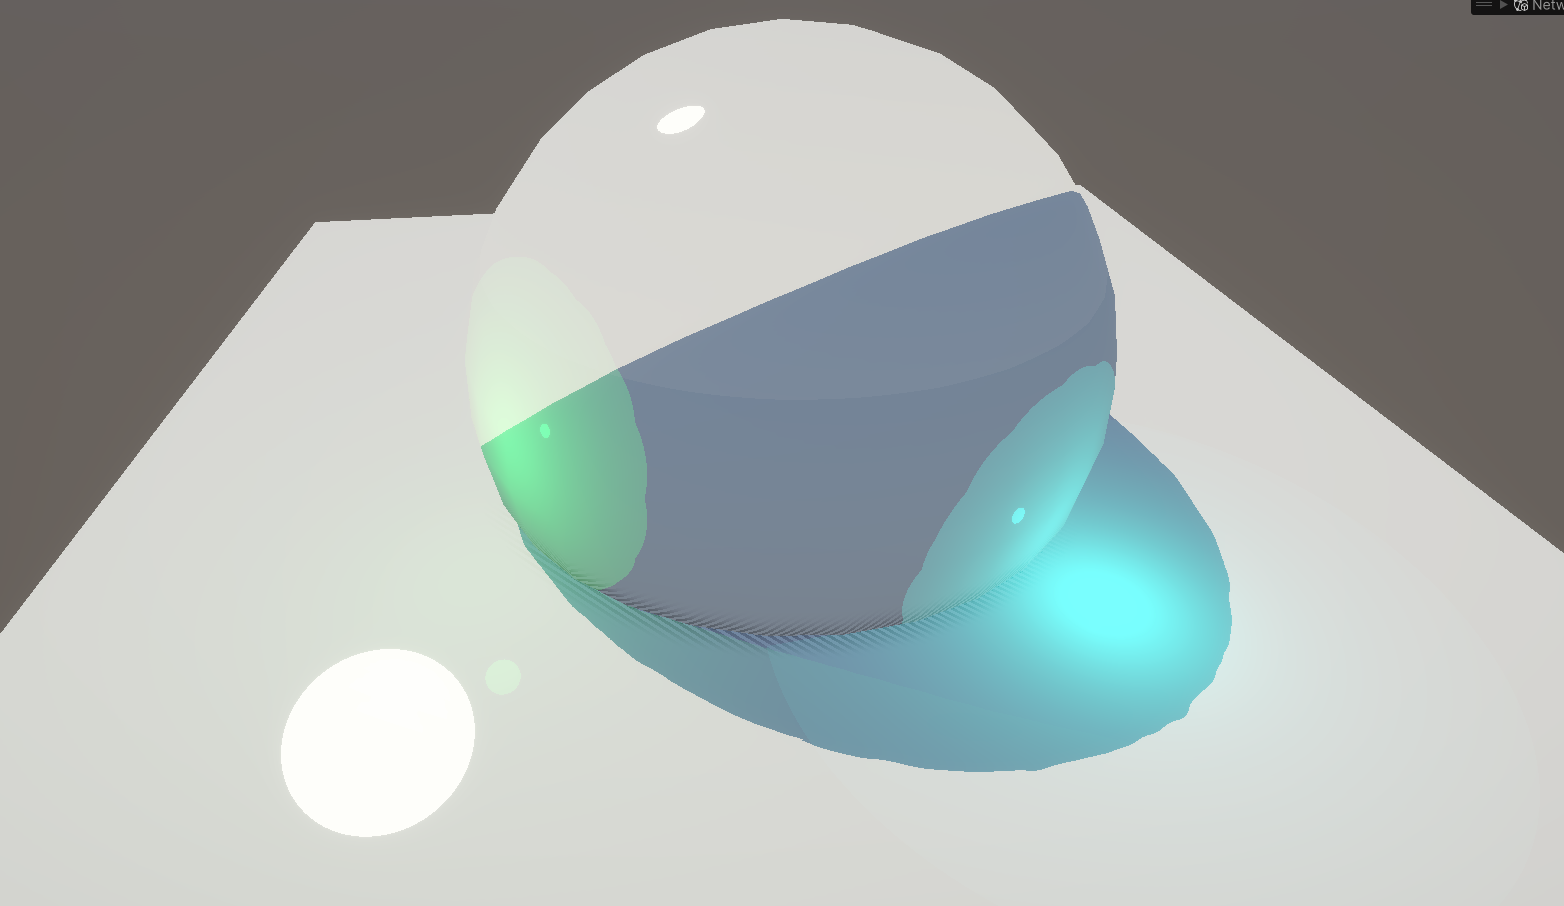
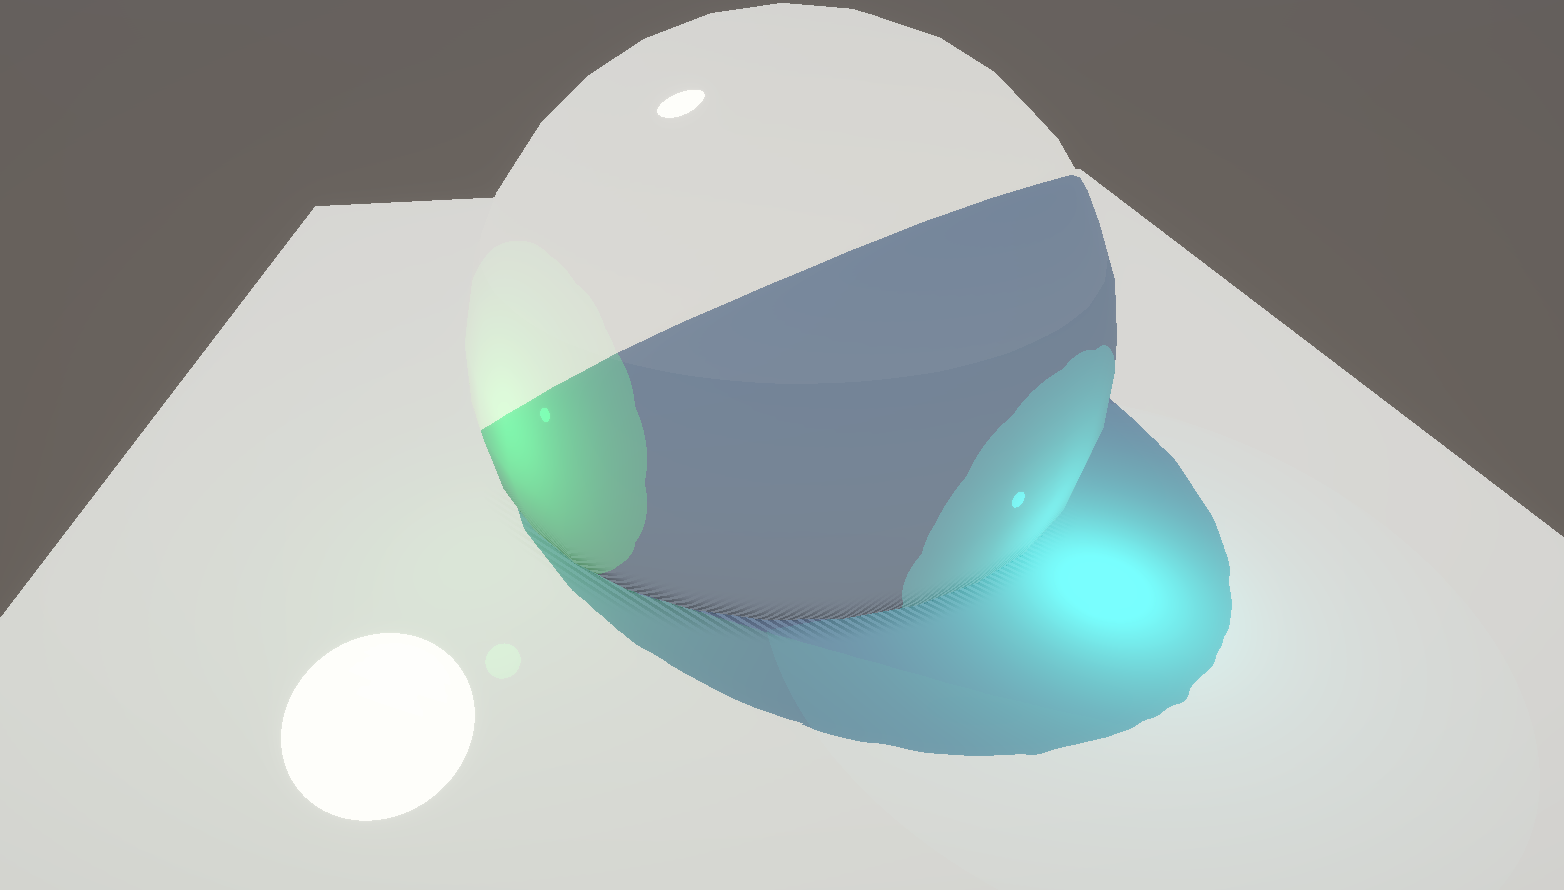
Add next section to abs page

diff --git a/AbsoluteMomentum.html b/AbsoluteMomentum.html
@@ -99,34 +99,34 @@
 							<!-- Image Grid Row 1 -->
 							<div style="display: flex; justify-content: space-between; gap: 10px; margin: 20px 0;">
 								<div style="flex: 1; text-align: center;">
-									<img src="images/StylizedFluids/Magma.png" alt="HDR Colors" style="width: 100%; height: auto; margin-bottom: 8px; border-radius: 4px;" />
-									<p><b>HDR</b> Colors design</p>
+									<img src="images/AbsMomentum/Lit.png" alt="Stylized Lit" style="width: 100%; height: auto; margin-bottom: 8px; border-radius: 4px;" />
+									<p>Stylized Lit Shader</p>
 								</div>
 								<div style="flex: 1; text-align: center;">
-									<img src="images/StylizedFluids/ClearWater.png" alt="Depth and transparency" style="width: 100%; height: auto; margin-bottom: 8px; border-radius: 4px;" />
-									<p><b>Depth</b> and <b>transparency</b></p>
+									<img src="images/AbsMomentum/Lit.png" alt="Double-Sided Stylized" style="width: 100%; height: auto; margin-bottom: 8px; border-radius: 4px;" />
+									<p>Double-Sided Stylized Lit Shader</p>
 								</div>
 							</div>
 							<!-- Image Grid Row 2 -->
 							<div style="display: flex; justify-content: space-between; gap: 10px; margin: 20px 0;">
 								<div style="flex: 1; text-align: center;">
-									<img src="images/StylizedFluids/Magma.png" alt="HDR Colors" style="width: 100%; height: auto; margin-bottom: 8px; border-radius: 4px;" />
-									<p><b>HDR</b> Colors design</p>
+									<img src="images/AbsMomentum/Tree.png" alt="Foliage" style="width: 100%; height: auto; margin-bottom: 8px; border-radius: 4px;" />
+									<p>Foliage Shader</p>
 								</div>
 								<div style="flex: 1; text-align: center;">
-									<img src="images/StylizedFluids/ClearWater.png" alt="Depth and transparency" style="width: 100%; height: auto; margin-bottom: 8px; border-radius: 4px;" />
-									<p><b>Depth</b> and <b>transparency</b></p>
+									<img src="images/AbsMomentum/Tree.png" alt="Transparent" style="width: 100%; height: auto; margin-bottom: 8px; border-radius: 4px;" />
+									<p>Transparent Stylized Lit Shader</p>
 								</div>
 							</div>
 							<!-- Image Grid Row 3 -->
 							<div style="display: flex; justify-content: space-between; gap: 10px; margin: 20px 0;">
 								<div style="flex: 1; text-align: center;">
-									<img src="images/StylizedFluids/Magma.png" alt="HDR Colors" style="width: 100%; height: auto; margin-bottom: 8px; border-radius: 4px;" />
-									<p><b>HDR</b> Colors design</p>
+									<img src="images/AbsMomentum/Lit.png" alt="Holographic" style="width: 100%; height: auto; margin-bottom: 8px; border-radius: 4px;" />
+									<p>Holographic Shader</p>
 								</div>
 								<div style="flex: 1; text-align: center;">
-									<img src="images/StylizedFluids/ClearWater.png" alt="Depth and transparency" style="width: 100%; height: auto; margin-bottom: 8px; border-radius: 4px;" />
-									<p><b>Depth</b> and <b>transparency</b></p>
+									<img src="images/AbsMomentum/Lit.png" alt="Rigs" style="width: 100%; height: auto; margin-bottom: 8px; border-radius: 4px;" />
+									<p>5 Character Rigs</p>
 								</div>
 							</div>
 